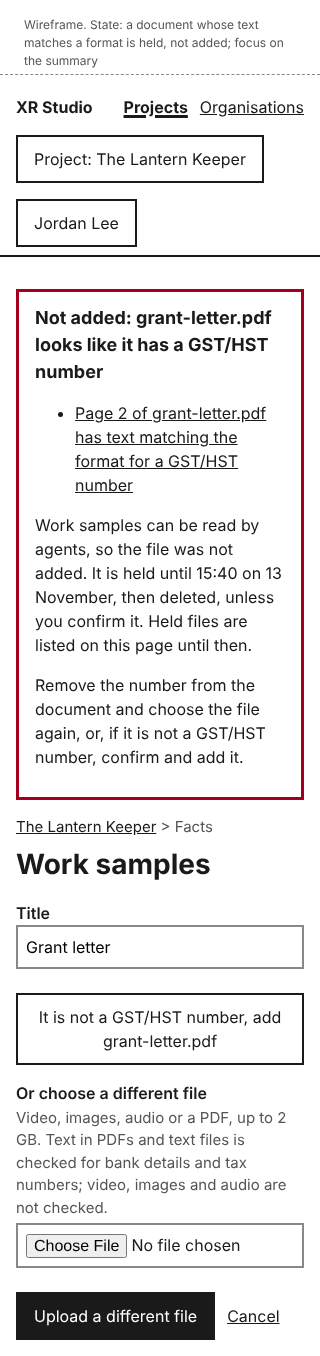
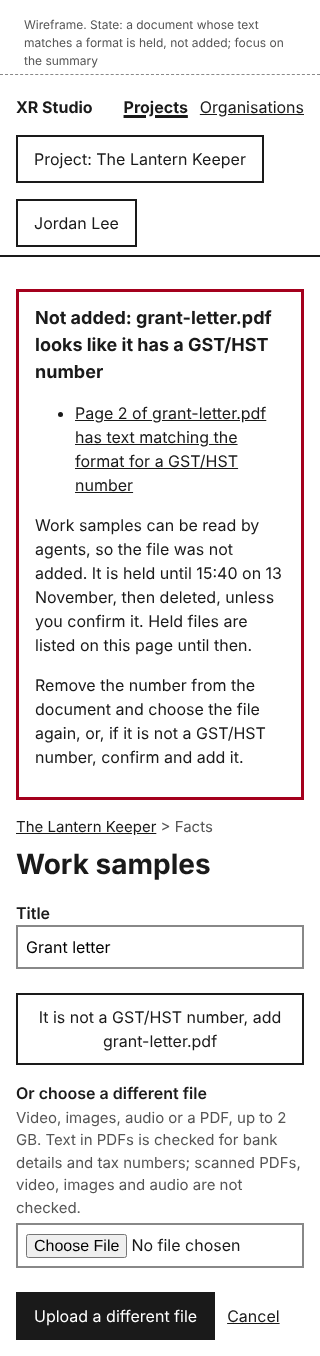
Settle slice 2 open questions in the designs and user docs
The approver's answers to the walkthrough's open questions:
- Only PDFs are checked (work samples accept no text files); scanned
  PDFs are not checked, and the upload hint says so. Mock-ups updated
  and re-rendered.
- A confirmation is logged in the activity of whatever holds the item:
  project or organisation.
- A What is it? answer over 100 characters is refused with a message,
  never cut.
- Letters in identifier patterns match in either case.
- Deleting an unconfirmed held file is logged, by XR Studio.
- Times in facts and Activity use the viewer's time zone; From and To
  include whole days.
- The rest of the feedback-and-versions story waits for drafts.

User pages follow, with design hashes updated.

Claude-Session: https://claude.ai/code/session_01HWRLNN16kUDL6hHLb1dGaG

Changed region(s): [[0.0625, 0.8363, 0.9062, 0.8982]]

diff --git a/docs/design/organisation-facts/work-sample-errors.html b/docs/design/organisation-facts/work-sample-errors.html
@@ -31,7 +31,7 @@
 <h2>Add a work sample</h2>
 <form method="post" enctype="multipart/form-data">
 <div class="field"><label for="sample-title">Title</label><p class="error-message" id="sample-title-error">Enter a title for the work sample.</p><input type="text" id="sample-title" name="sample-title" aria-describedby="sample-title-error" aria-invalid="true"></div>
-<div class="field"><label for="sample-file">File</label><p class="hint" id="sample-file-hint">Video, images, audio or a PDF, up to 2 GB. Text in PDFs and text files is checked for bank details and tax numbers; video, images and audio are not checked.</p><p class="error-message" id="sample-file-error">The file is larger than 2 GB. Choose a smaller file.</p><input type="file" id="sample-file" name="sample-file" aria-describedby="sample-file-hint sample-file-error" aria-invalid="true"></div>
+<div class="field"><label for="sample-file">File</label><p class="hint" id="sample-file-hint">Video, images, audio or a PDF, up to 2 GB. Text in PDFs is checked for bank details and tax numbers; scanned PDFs, video, images and audio are not checked.</p><p class="error-message" id="sample-file-error">The file is larger than 2 GB. Choose a smaller file.</p><input type="file" id="sample-file" name="sample-file" aria-describedby="sample-file-hint sample-file-error" aria-invalid="true"></div>
 <div class="actions"><button type="submit">Add work sample</button></div>
 </form>
 </main>

diff --git a/docs/design/organisation-facts/work-sample-interrupted.html b/docs/design/organisation-facts/work-sample-interrupted.html
@@ -31,7 +31,7 @@
 <h2>Add a work sample</h2>
 <form method="post" enctype="multipart/form-data">
 <div class="field"><label for="sample-title">Title</label><input type="text" id="sample-title" name="sample-title" value="Company showreel 2026"></div>
-<div class="field"><label for="sample-file">File</label><p class="hint" id="sample-file-hint">Video, images, audio or a PDF, up to 2 GB. Text in PDFs and text files is checked for bank details and tax numbers; video, images and audio are not checked.</p><p class="error-message" id="sample-file-error">The upload of showreel-2026.mp4 stopped before it finished. Choose the file again to try again.</p><input type="file" id="sample-file" name="sample-file" aria-describedby="sample-file-hint sample-file-error" aria-invalid="true"></div>
+<div class="field"><label for="sample-file">File</label><p class="hint" id="sample-file-hint">Video, images, audio or a PDF, up to 2 GB. Text in PDFs is checked for bank details and tax numbers; scanned PDFs, video, images and audio are not checked.</p><p class="error-message" id="sample-file-error">The upload of showreel-2026.mp4 stopped before it finished. Choose the file again to try again.</p><input type="file" id="sample-file" name="sample-file" aria-describedby="sample-file-hint sample-file-error" aria-invalid="true"></div>
 <div class="actions"><button type="submit">Add work sample</button></div>
 </form>
 </main>

diff --git a/docs/design/identifier-filter/document-held.html b/docs/design/identifier-filter/document-held.html
@@ -31,7 +31,7 @@
 <form method="post" enctype="multipart/form-data">
 <div class="field"><label for="sample-title">Title</label><input type="text" id="sample-title" name="sample-title" value="Grant letter"></div>
 <div class="actions"><button type="submit" name="intent" value="confirm" class="secondary">It is not a GST/HST number, add grant-letter.pdf</button></div>
-<div class="field"><label for="sample-file">Or choose a different file</label><p class="hint" id="sample-file-hint">Video, images, audio or a PDF, up to 2 GB. Text in PDFs and text files is checked for bank details and tax numbers; video, images and audio are not checked.</p><input type="file" id="sample-file" name="sample-file" aria-describedby="sample-file-hint"></div>
+<div class="field"><label for="sample-file">Or choose a different file</label><p class="hint" id="sample-file-hint">Video, images, audio or a PDF, up to 2 GB. Text in PDFs is checked for bank details and tax numbers; scanned PDFs, video, images and audio are not checked.</p><input type="file" id="sample-file" name="sample-file" aria-describedby="sample-file-hint"></div>
 <div class="actions"><button type="submit" name="intent" value="upload">Upload a different file</button><a href="#">Cancel</a></div>
 </form>
 </main>

diff --git a/docs/design/organisation-facts/work-samples.html b/docs/design/organisation-facts/work-samples.html
@@ -28,7 +28,7 @@
 <h2>Add a work sample</h2>
 <form method="post" enctype="multipart/form-data">
 <div class="field"><label for="sample-title">Title</label><input type="text" id="sample-title" name="sample-title"></div>
-<div class="field"><label for="sample-file">File</label><p class="hint" id="sample-file-hint">Video, images, audio or a PDF, up to 2 GB. Text in PDFs and text files is checked for bank details and tax numbers; video, images and audio are not checked.</p><input type="file" id="sample-file" name="sample-file" aria-describedby="sample-file-hint"></div>
+<div class="field"><label for="sample-file">File</label><p class="hint" id="sample-file-hint">Video, images, audio or a PDF, up to 2 GB. Text in PDFs is checked for bank details and tax numbers; scanned PDFs, video, images and audio are not checked.</p><input type="file" id="sample-file" name="sample-file" aria-describedby="sample-file-hint"></div>
 <div class="actions"><button type="submit">Add work sample</button></div>
 </form>
 </main>

diff --git a/docs/design/project-facts/work-samples.html b/docs/design/project-facts/work-samples.html
@@ -32,7 +32,7 @@
 <h2>Add a work sample</h2>
 <form method="post" enctype="multipart/form-data">
 <div class="field"><label for="sample-title">Title</label><input type="text" id="sample-title" name="sample-title"></div>
-<div class="field"><label for="sample-file">File</label><p class="hint" id="sample-file-hint">Video, images, audio or a PDF, up to 2 GB. Text in PDFs and text files is checked for bank details and tax numbers; video, images and audio are not checked.</p><input type="file" id="sample-file" name="sample-file" aria-describedby="sample-file-hint"></div>
+<div class="field"><label for="sample-file">File</label><p class="hint" id="sample-file-hint">Video, images, audio or a PDF, up to 2 GB. Text in PDFs is checked for bank details and tax numbers; scanned PDFs, video, images and audio are not checked.</p><input type="file" id="sample-file" name="sample-file" aria-describedby="sample-file-hint"></div>
 <div class="actions"><button type="submit">Add work sample</button></div>
 </form>
 </main>

diff --git a/docs/design/identifier-filter.md b/docs/design/identifier-filter.md
@@ -25,8 +25,8 @@ What happens when someone types, pastes or uploads text that looks like a bank d
 1. A person saves or restores a fact. Before anything is saved, the command layer checks the text against every format turned on for the project's organisation. Matching ignores spaces, hyphens and dots between characters, so "046 454 286", "046-454-286" and "046454286" match the same format.
 2. If any part matches, nothing is saved. The edit page comes back with the text kept and an error summary that takes focus, page title starting "Error: Not saved". It quotes the matching part, names the field and the format, says why (facts can be read by agents), and says what to do: take it out and save again, or confirm it is not that kind of number.
 3. **It is not a <format>** is a submit button in the same form, so whatever is in the box at that moment, including edits made after the error, is what goes to the confirmation page. It shows the matching text and asks **What is it?** in a few words.
-4. **What is it?** is required and is itself checked against the formats before anything is saved, because it is recorded in the append-only activity log. If it is empty: "Say in a few words what the number is." If it matches a format: "Your answer also looks like a <format>. Say what it is in words, without the number." It is at most 100 characters.
-5. **Confirm and save <fact>** saves the fact and records the confirmation in the activity with the person's name, the time, the format and their answer. The matching text itself is not copied into the log. **Go back and edit the text** returns to the edit page with the text kept.
+4. **What is it?** is required and is itself checked against the formats before anything is saved, because it is recorded in the append-only activity log. If it is empty: "Say in a few words what the number is." If it matches a format: "Your answer also looks like a <format>. Say what it is in words, without the number." It is at most 100 characters; a longer answer is not cut but refused on submit with "Keep your answer to 100 characters or fewer.", the answer kept (approver's decision, 2026-11-12).
+5. **Confirm and save <fact>** saves the fact and records the confirmation with the person's name, the time, the format and their answer, in the activity of whatever holds the item: the project's activity for a project's facts and work samples, the organisation's activity for organisation facts and standard work samples (approver's decision, 2026-11-12). The matching text itself is not copied into the log. **Go back and edit the text** returns to the edit page with the text kept.
 6. The Facts tab opens with a notice: "Description saved. Your confirmation that "00123-004-1234567" is not a bank account number is recorded in Activity."
 7. A confirmation covers that exact matching text in that fact. Later saves of the fact that still contain it are not held again; any new matching text is.
 
@@ -36,8 +36,8 @@ Some formats overlap: any 9 digits can be a Business Number, and 9 digits that p
 
 ### A document that matches
 
-1. A person adds a work sample. When the upload is registered, the text of PDFs and text files is checked. Video, images and audio are not checked in slice 2, and the field's hint says so (approver's decision, 2026-11-12).
-2. If it matches, the file is not added. It is held until a stated clock time 24 hours later, then deleted, unless confirmed (approver's decision, 2026-11-12). The error summary says which page of which file matched which format, and when it will be deleted.
+1. A person adds a work sample. When the upload is registered, the text of PDFs is checked. Scanned PDFs with no text layer, video, images and audio are not checked in slice 2, and the field's hint says so (approver's decisions, 2026-11-12). Work samples accept no other file types, so there are no text files to check.
+2. If it matches, the file is not added. It is held until a stated clock time 24 hours later, then deleted, unless confirmed (approver's decision, 2026-11-12). The deletion is recorded in the activity of whatever holds the work samples page, by "XR Studio": "Deleted grant-letter.pdf, held because its text looked like it had a GST/HST number and not confirmed within 24 hours." (approver's decision, 2026-11-12). The error summary says which page of which file matched which format, and when it will be deleted.
 3. **It is not a <format>, add <file>** is a submit button that goes to the same **What is it?** confirmation, then adds the file. **Or choose a different file** is a file field with **Upload a different file** to start again.
 4. Until it is confirmed or deleted, a held file is listed at the top of the work samples page: "Held: <file>. Not added: its text looks like it has a <format>. It will be deleted at <time> on <date> unless you confirm it is not a <format>." with **Confirm <file> is not a <format>** and **Delete <file> now**. So a person who closes the page can come back to it.
 
@@ -46,7 +46,7 @@ Some formats overlap: any 9 digits can be a Business Number, and 9 digits that p
 1. On the organisation page, people who look after it have **Identifier formats**. The list belongs to the organisation and applies to every project in it (approver's decision, 2026-11-12; decision-identifier-format-list).
 2. Each format shows its name, what it matches with an example, whether checking is **On**, and its source (**Starter**, or who added it and when).
 3. The starter list (decision-protected-store): **Bank account number (Canada)** (transit, institution and account); **Social Insurance Number** (9 digits that pass the SIN check digit); **Business Number** (any 9 digits, so it overlaps the SIN); **GST/HST number** (9 digits, RT and 4 digits); **Payment card number** (13 to 19 digits that pass the card check). Starter formats can be turned off and on but not removed.
-4. **Add a format** takes a **Name** and a **Pattern**, written with # for any digit and A for any letter, other characters matching as typed, with spaces, hyphens and dots ignored when checking. A pattern needs at least 6 # or A (approver's decision, 2026-11-12). **Try it with an example** shows whether an example matches: the status line is on the page, empty, from the start, and is updated when the person stops typing for a moment or leaves the field, with "<example> matches this pattern." or "<example> does not match this pattern."
+4. **Add a format** takes a **Name** and a **Pattern**, written with # for any digit and A for any letter, other characters matching as typed, with spaces, hyphens and dots ignored when checking. Letters match in either case, so "RT" in a pattern matches "rt" (approver's decision, 2026-11-12). A pattern needs at least 6 # or A (approver's decision, 2026-11-12). **Try it with an example** shows whether an example matches: the status line is on the page, empty, from the start, and is updated when the person stops typing for a moment or leaves the field, with "<example> matches this pattern." or "<example> does not match this pattern."
 5. **Turn off** asks for confirmation, because text of that kind will then be saved where agents can read it. After it, the row shows **Off** and **Turn on**, and a notice says so. **Turn on** needs no confirmation; its notice says it is checked from now on and text already saved is not changed.
 6. **Remove** (added formats only) asks for confirmation, then says the format is no longer checked. To check it again, add it again.
 7. Every change to the list is recorded in the organisation's activity (design-activity-log).
@@ -82,7 +82,7 @@ Some formats overlap: any 9 digits can be a Business Number, and 9 digits that p
 
 - **Match in a fact:** summary heading "Not saved: this looks like a <format>"; field error "Take out "<text>", or confirm it is not a <format>."
 - **Several formats:** "Not saved: this looks like a <format> or a <format>"; field error "Take out "<text>", or confirm it is none of these."
-- **Answer empty:** "Say in a few words what the number is." **Answer matches a format:** "Your answer also looks like a <format>. Say what it is in words, without the number."
+- **Answer empty:** "Say in a few words what the number is." **Answer too long:** "Keep your answer to 100 characters or fewer." (laid out as the answer-refused mock-up). **Answer matches a format:** "Your answer also looks like a <format>. Say what it is in words, without the number."
 - **Match in a document:** "Not added: <file> looks like it has a <format>", naming the page and the deletion time.
 - **Pattern too short:** "Use at least 6 # or A in the pattern. A shorter pattern would match ordinary numbers like dates and prices."
 - **Name missing:** "Enter a name for the format." **Pattern missing:** "Enter a pattern, like ###-AA-#####."

diff --git a/docs/user/identifier-formats.md b/docs/user/identifier-formats.md
@@ -2,7 +2,7 @@
 id: docs-identifier-filter
 status: approved
 derived-from:
-  - design-identifier-filter: a7d90818a2ab
+  - design-identifier-filter: aa3e3eab9a69
   - story-contracts-and-payment-protect-sensitive-data#acceptance-criteria: 2b9128383b81
 ---
 
@@ -18,7 +18,7 @@ Sometimes ordinary text only looks like an identifier: a catalogue number, a tic
 
 - Every save of a project fact or organisation fact, including a funder applicant profile.
 - Every restore of an earlier version.
-- The text of PDFs and text files added as work samples. Video, images and audio are not checked.
+- The text of PDFs added as work samples. Scanned PDFs, video, images and audio are not checked, so do not add scans or photos of bank or tax documents.
 
 Matching ignores spaces, hyphens and dots between characters, so "046 454 286", "046-454-286" and "046454286" all match the same format. The formats used are those turned on for the project's organisation; see [Keep the list of identifier formats](#keep-the-list-of-identifier-formats).
 
@@ -33,10 +33,10 @@ If it is an identifier, take it out and save again.
 If it is not, confirm so:
 
 1. Select **It is not a <format>**, for example **It is not a bank account number**. Any changes you made in the box first are kept.
-2. Under **What is it?**, say in a few words what the number is, such as "catalogue number for the lantern prop". Do not type the number itself, or any bank or tax details. Your answer is recorded in the activity log, which nobody can edit.
+2. Under **What is it?**, say in a few words what the number is, such as "catalogue number for the lantern prop". Do not type the number itself, or any bank or tax details. Your answer is recorded in the activity log, which nobody can edit. Keep it to 100 characters or fewer.
 3. Select **Confirm and save <fact>**, for example **Confirm and save description**. **Go back and edit the text** returns to the edit page with your text kept.
 
-The **Facts** tab opens with a notice such as "Description saved. Your confirmation that "00123-004-1234567" is not a bank account number is recorded in Activity." The activity entry names you, the time, the format and your answer; the matching text itself is not copied there.
+The **Facts** tab opens with a notice such as "Description saved. Your confirmation that "00123-004-1234567" is not a bank account number is recorded in Activity." The activity entry names you, the time, the format and your answer; the matching text itself is not copied there. It goes in the project's **Activity** for a project's facts and work samples, and in the organisation's **Activity** for organisation facts and standard work samples.
 
 ![Confirm it is not an identifier](../design/identifier-filter/confirm-not-identifier.png)
 
@@ -52,14 +52,14 @@ If different pieces of the text match, each is listed in the message with a link
 
 ## A document that is held
 
-When you add a PDF or text file as a work sample and its text matches a format, the file is not added. You see, for example, "Not added: grant-letter.pdf looks like it has a GST/HST number". The message says which page matched and when the file will be deleted: it is held for 24 hours, then deleted unless you confirm it.
+When you add a PDF as a work sample and its text matches a format, the file is not added. You see, for example, "Not added: grant-letter.pdf looks like it has a GST/HST number". The message says which page matched and when the file will be deleted: it is held for 24 hours, then deleted unless you confirm it.
 
 ![Document held](../design/identifier-filter/document-held.png)
 
 - If it is not an identifier, select **It is not a <format>, add <file>**, answer **What is it?** as above, and confirm. The file is added.
 - If it is, remove the number from the document, then use **Or choose a different file** and **Upload a different file**.
 
-Until it is confirmed or deleted, the held file is listed at the top of the work samples page with the time it will be deleted, so you can come back to it. Select **Confirm <file> is not a <format>** to confirm it, or **Delete <file> now**.
+Until it is confirmed or deleted, the held file is listed at the top of the work samples page with the time it will be deleted, so you can come back to it. Select **Confirm <file> is not a <format>** to confirm it, or **Delete <file> now**. If nobody confirms it in time, it is deleted and the activity log records the deletion.
 
 ## Keep the list of identifier formats
 
@@ -85,7 +85,7 @@ Starter formats can be turned off and on, but not removed. Every change to the l
 
 1. Select **Add a format**.
 2. Type a **Name**, such as "Funder account number".
-3. Type a **Pattern**. Write # for any digit and A for any letter; other characters match as typed, and spaces, hyphens and dots are ignored when checking. For example, ###-AA-##### matches 204-HP-11872. A pattern needs at least 6 # or A, so that it does not match ordinary numbers like dates and prices.
+3. Type a **Pattern**. Write # for any digit and A for any letter; other characters match as typed, and spaces, hyphens and dots are ignored when checking. Letters match in either case, so RT in a pattern also matches rt. For example, ###-AA-##### matches 204-HP-11872. A pattern needs at least 6 # or A, so that it does not match ordinary numbers like dates and prices.
 4. If you like, type an example under **Try it with an example**. When you stop typing or leave the field, the page says whether it matches the pattern. The example is not saved.
 5. Select **Add format**.
 
@@ -118,6 +118,7 @@ Select **Remove** beside it, then **Remove <format>** in the dialog, or **Keep <
 | "Not saved: this looks like a <format>" | Text in the fact matches that format. | Take it out and save again, or select **It is not a <format>** and confirm. |
 | "Not added: <file> looks like it has a <format>" | Text in the document matches that format. The file is held, then deleted at the time shown. | Confirm it is not an identifier, or remove the number and upload the file again. |
 | "Say in a few words what the number is." | **What is it?** is empty. | Type a short answer. |
+| "Keep your answer to 100 characters or fewer." | Your answer to **What is it?** is longer than 100 characters. | Shorten it. What you typed is kept. |
 | "Your answer also looks like a <format>. Say what it is in words, without the number." | Your answer to **What is it?** matches a format. It would be recorded in the activity log, so it is refused. | Describe the number in words, without typing it. |
 | "Use at least 6 # or A in the pattern. A shorter pattern would match ordinary numbers like dates and prices." | The pattern is too short. | Make the pattern longer. Your other values, including the example, are kept. |
 | "Enter a name for the format." | **Name** is empty. | Type a name. |

diff --git a/docs/user/activity.md b/docs/user/activity.md
@@ -2,7 +2,7 @@
 id: docs-activity-log
 status: approved
 derived-from:
-  - design-activity-log: 6020147f50fd
+  - design-activity-log: 69b55595cccd
   - story-agent-work-read-activity-log#acceptance-criteria: 1649ac451653
 ---
 
@@ -10,7 +10,7 @@ derived-from:
 
 Every change on a project is recorded in its activity log: who did what, and when. Nobody can edit or remove an entry, so you can always find out who changed a fact or a role, and check that a confirmation was recorded.
 
-Today the log records people's changes to facts, people and roles, and the project itself, and every confirmation that some text is not an identifier. It records changes, not who opened which page. In a later release, when agents and Claude Code sessions arrive, it also records each agent action with its stage and tool and the person who requested or approved it.
+Today the log records people's changes to facts, people and roles, and the project itself, every confirmation that some text is not an identifier, and the deletion of a held file nobody confirmed in time, shown as done by XR Studio. It records changes, not who opened which page. In a later release, when agents and Claude Code sessions arrive, it also records each agent action with its stage and tool and the person who requested or approved it.
 
 Organisations have their own activity log for changes to the organisation, its facts and its identifier formats.
 
@@ -20,7 +20,7 @@ You need the Director, Producer or Technical artist role on the project.
 
 Open the project and select **Activity**, the last tab. Entries are listed newest first, fifty at a time, each with:
 
-- **When**: the date and time.
+- **When**: the date and time, in your own time zone.
 - **Who**: the person who made the change.
 - **What**: what was done, in words, for example "Saved the description (version 4)" or "Changed Riley Chen's roles to Artist and Sound designer".
 - **Area**: Project, Facts or People.
@@ -36,7 +36,7 @@ An entry says what was saved, never the text or figures of a fact, so an entry a
 1. Above the list, choose any of:
    - **Who**: anyone with an entry on the project, including people since removed, shown as "<name> (removed)". **Agents** is also listed, but there are no agent entries until agents arrive in a later release. Filtering by agent and by **Stage** comes then too.
    - **Area**: Project, Facts or People.
-   - **From** and **To**: a range of dates.
+   - **From** and **To**: a range of dates. Both days are included, so the same date in both shows that one day.
 2. Select **Apply filters**.
 
 The page shows how many entries match and which filters you used, for example "3 entries: Jordan Lee, Facts." **Clear filters** shows everything again.
@@ -47,7 +47,7 @@ The page shows how many entries match and which filters you used, for example "3
 
 You need to look after the organisation.
 
-On the organisation's page, select **Activity**. It lists changes to the organisation itself, its facts and its identifier formats, with the same columns and filters, except that **Who** lists only people. Its areas are Organisation, Organisation facts and Identifier formats.
+On the organisation's page, select **Activity**. It lists changes to the organisation itself, its facts, its standard work samples and its identifier formats, and confirmations made on them, with the same columns and filters, except that **Who** lists only people. Its areas are Organisation, Organisation facts and Identifier formats.
 
 ![Organisation activity](../design/activity-log/org-activity.png)
 

diff --git a/docs/design/activity-log.md b/docs/design/activity-log.md
@@ -23,10 +23,11 @@ A log of everything done on a project, which nobody can edit or remove (story-ag
 1. On a project, the **Activity** tab lists entries newest first: **When**, **Who**, **What** and **Area**. Fifty at a time, with **Older entries**.
 2. Filters above the list: **Who**, **Area** (Project, Facts, People, and later areas as slices add them), **From** and **To** dates. **Who** lists everyone with an entry on the project, including people since removed, shown as "<name> (removed)", and **Agents**. **Apply filters** reloads the page; focus moves to the result line ("3 entries: Jordan Lee, Facts.") and the page title starts with it. **Clear filters** shows everything again.
 3. An entry names what was done in words ("Saved the description (version 4)", "Changed Riley Chen's roles to Artist and Sound designer", "Saved the description (version 5) after confirming that text in it is not a bank account number ("Catalogue number for the lantern prop")"). It never contains the text or figures of a fact, and never an identifier: the only free text it can carry is a confirmation answer, which is checked against the identifier formats before it is saved (design-identifier-filter).
-4. Slice 2 logs changes, not page views.
-5. From slice 7, entries made through Claude Code name the person and the channel ("Sam Okafor via Claude Code"; decision-agent-runtime), and an agent entry names the project, stage, tool and the person who requested or approved it (story-agent-work-read-activity-log); **Who** can then be filtered by agent and by **Stage**.
-6. An entry removed under a retention rule (from the keep-records story, a later release) stays in the list as an entry of its own: "A record from <date> was deleted at the end of its retention period (<rule>). Its content is gone; this entry stays."
-7. On the organisation page, people who look after it have **Activity** for the organisation's own changes, with the same filters (its areas are Organisation, Organisation facts and Identifier formats).
+4. Slice 2 logs changes, not page views. It also logs the deletion of a held upload that was not confirmed within 24 hours, by "XR Studio" (design-identifier-filter; approver's decision, 2026-11-12). A confirmation that text is not an identifier is logged where the item lives: the project's activity for its facts and work samples, the organisation's for organisation facts and standard work samples.
+5. Times in Activity, and on project and organisation facts, are shown in the viewer's own time zone. **From** and **To** take whole days in that zone and include both days, so the same date in both shows that one day (approver's decision, 2026-11-12).
+6. From slice 7, entries made through Claude Code name the person and the channel ("Sam Okafor via Claude Code"; decision-agent-runtime), and an agent entry names the project, stage, tool and the person who requested or approved it (story-agent-work-read-activity-log); **Who** can then be filtered by agent and by **Stage**.
+7. An entry removed under a retention rule (from the keep-records story, a later release) stays in the list as an entry of its own: "A record from <date> was deleted at the end of its retention period (<rule>). Its content is gone; this entry stays."
+8. On the organisation page, people who look after it have **Activity** for the organisation's own changes, with the same filters (its areas are Organisation, Organisation facts and Identifier formats).
 
 ## Who can open the log
 

diff --git a/docs/user/project-facts.md b/docs/user/project-facts.md
@@ -2,7 +2,7 @@
 id: docs-project-facts
 status: approved
 derived-from:
-  - design-project-facts: 833171fc6120
+  - design-project-facts: 1a327e4e7efd
   - story-project-record-record-facts#acceptance-criteria: 1b82a3da6d7d
   - story-review-and-status-feedback-and-versions#acceptance-criteria: 667f3e80aa75
 ---
@@ -17,7 +17,7 @@ Every save is kept as a version. You can see who last changed each fact, read it
 
 Open the project and select **Facts**. It sits between **Overview** and **People**. Above the project's name, **Organisation: <organisation>** links to the organisation's page.
 
-The facts are listed in this order: **Description**, **Plan**, **Budget**, **Credits**, **Collaborators**, **Schedule**, **Work samples** and **Capacity**. Under each one you see its value and "Last changed by <name>, <date and time>".
+The facts are listed in this order: **Description**, **Plan**, **Budget**, **Credits**, **Collaborators**, **Schedule**, **Work samples** and **Capacity**. Under each one you see its value and "Last changed by <name>, <date and time>". Times are shown in your own time zone.
 
 Below them, **From <organisation>** shows the organisation's legal name and bio, which every project in the organisation reads. You cannot edit them here; select **Open <organisation>'s facts** to go to them. See [Organisation facts](organisation-facts.md).
 
@@ -87,7 +87,7 @@ To remove a sample, select **Remove** beside it, then **Remove <title>** in the 
 
 ![Work samples](../design/project-facts/work-samples.png)
 
-Text in PDFs and text files is checked for bank details and tax numbers when you add them. Video, images and audio are not checked. A file whose text matches is held, not added, and listed at the top of the page as **Held**; see [A document that is held](identifier-formats.md#a-document-that-is-held).
+Text in PDFs is checked for bank details and tax numbers when you add them. Scanned PDFs, video, images and audio are not checked, so do not add scans or photos of bank or tax documents. A file whose text matches is held, not added, and listed at the top of the page as **Held**; see [A document that is held](identifier-formats.md#a-document-that-is-held).
 
 The organisation's standard work samples have their own page; the line at the top of this page links to it.
 
@@ -111,6 +111,7 @@ If another person saves the same fact after you opened it, your text is not save
 - If your roles do not let you edit, you see the facts without **Edit**, and a line names who edits them. On **Earlier versions** you can use **Compare with current** but not **Restore**.
 - A fact your roles do not let you see is listed by name with who can see it, for example "The budget is visible to the director and producer.", and no value. Its earlier versions are not available to you either.
 - Venue attendants, performers and collaborators do not use the dashboard and never see facts.
+- Written feedback on drafts, and restoring by roles other than the director and producer, come with drafts in a later release.
 - Agents and Claude Code sessions cannot read or change facts yet. In a later release, an agent will be able to suggest facts from a document you point it at, marked as drafts until you accept them.
 
 ![Facts, read only](../design/project-facts/facts-read-only.png)

diff --git a/docs/design/organisation-facts.md b/docs/design/organisation-facts.md
@@ -27,7 +27,7 @@ The company's own facts, recorded once in its organisation and read by every pro
 3. A line under the heading says that bank details and tax numbers are not organisation facts: they will be kept in the protected store, which comes in a later release; until then, keep them out of XR Studio (story-contracts-and-payment-protect-sensitive-data).
 4. **Edit** opens one fact on its own page, as for project facts (design-project-facts). On save the organisation page opens with a notice: "Bio saved. Every project in <organisation> now reads the new bio."
 5. **Funder applicant profiles** lists one profile per funder on the program list. Until the program list story arrives, the list is the four funders the business requirements name: Canada Council for the Arts, Canada Media Fund, Creative BC and Epic MegaGrants (approver's decision, 2026-11-12). Each line says whether the profile is recorded and has **Add** (not recorded yet) or **Edit** and **Earlier versions** (recorded), each naming the funder in visually hidden text. A profile is a short form: **Applicant name as registered with the funder**, **Applicant category**, **Funder's applicant profile number (optional)** and **Mandate**, with **Save profile**.
-6. **Open standard work samples** opens the same work samples page as a project's (design-project-facts), for the organisation: files with a title, who added each and when, **Remove**, any held uploads, and **Add a work sample**. Text in PDFs and text files is checked against the identifier formats when the upload is registered (design-identifier-filter).
+6. **Open standard work samples** opens the same work samples page as a project's (design-project-facts), for the organisation: files with a title, who added each and when, **Remove**, any held uploads, and **Add a work sample**. Text in PDFs is checked against the identifier formats when the upload is registered; scanned PDFs, video, images and audio are not (design-identifier-filter).
 7. Every project in the organisation shows the legal name and bio under **From <organisation>** on its Facts tab (design-project-facts).
 8. **Earlier versions**, compare, restore and save conflicts work exactly as for project facts, with the same pages and wording (see design-project-facts' mock-ups); restoring an organisation fact also runs the identifier check.
 

diff --git a/docs/design/project-facts.md b/docs/design/project-facts.md
@@ -110,3 +110,4 @@ Organisation facts read into a project follow design-organisation-facts. No fact
 - Agent drafts of facts from a document: slice 7.
 - Detailed budget lines and actual cost: the budgets stories.
 - Drafts that read facts and are flagged when a fact changes: the funding stories.
+- The rest of story-review-and-status-feedback-and-versions (written feedback, revise or regenerate, side-by-side compare, and restore by Riley): with drafts, in a later slice. Slice 2 gives every role that sees a fact its compare page, and restore of facts stays with the director and producer (approver's decision, 2026-11-12).
